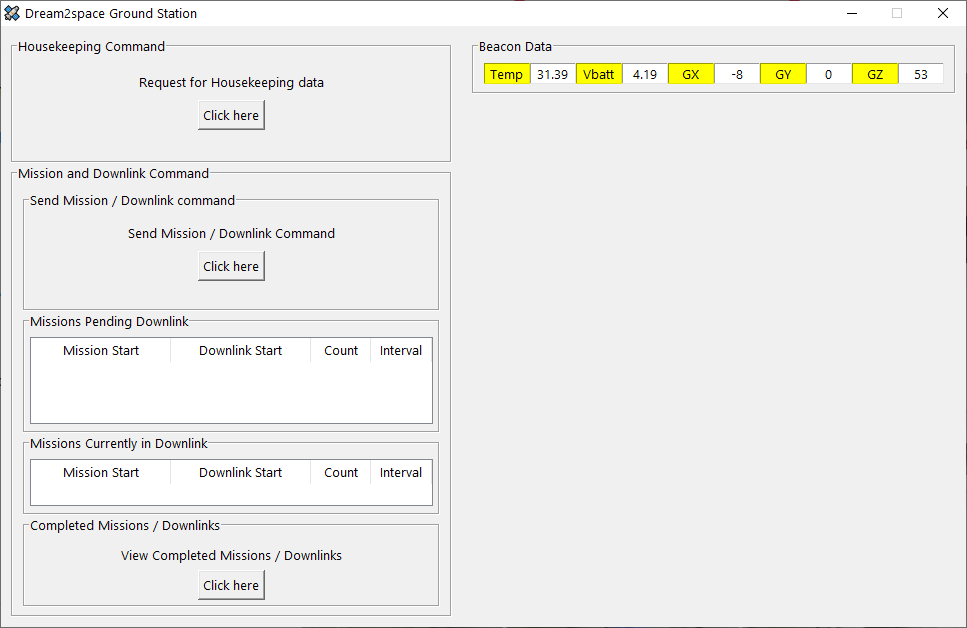
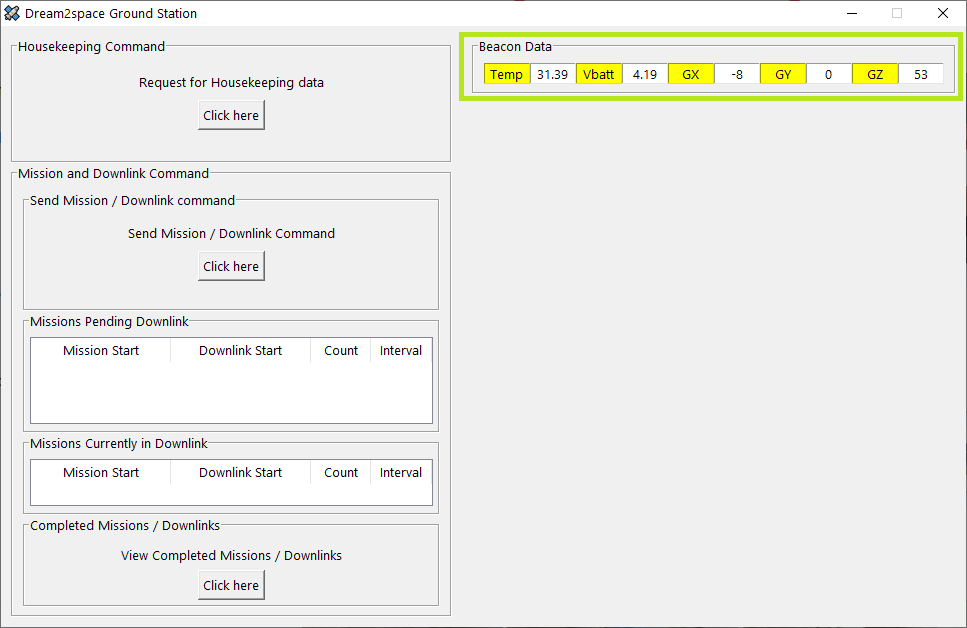
add beacon section

Changed region(s): [[0.4654, 0.0303, 1.0, 0.1815]]

diff --git a/v0.2-doc/Ground_Stn_Doc.md b/v0.2-doc/Ground_Stn_Doc.md
@@ -220,7 +220,15 @@ After which, the app will display the Ground Station main page as shown below.
 
 ## Ground Station Beacon Panel
 
+Every minute, the Dream2space Cubesat will send beacons to advertise its presence.
+
+The Ground Station will pick up the beacons to display it in the Beacon panel of the Ground Station.
+
+The Beacon panel is boxed in **<span style="color: lime">green</span>** in the screenshot below.
+
 <img src="images/app-beacon-refresh.png" alt="Refresh ports" width="90%"/>
+
+The Beacon panel display will blink in yellow to indicate a new beacon has arrived in the Ground Station.
 
 ## Ground Station Housekeeping Data Panel
 
